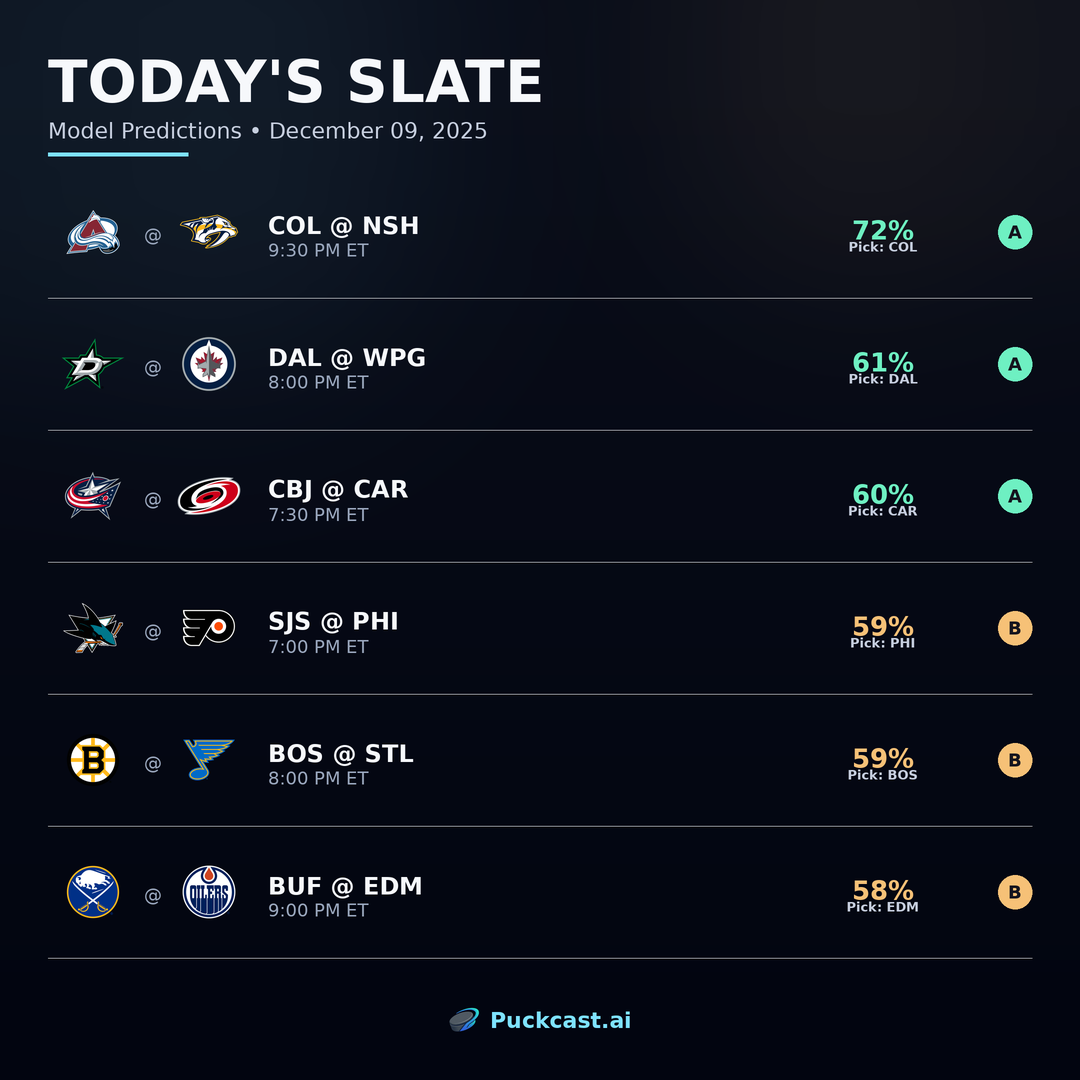
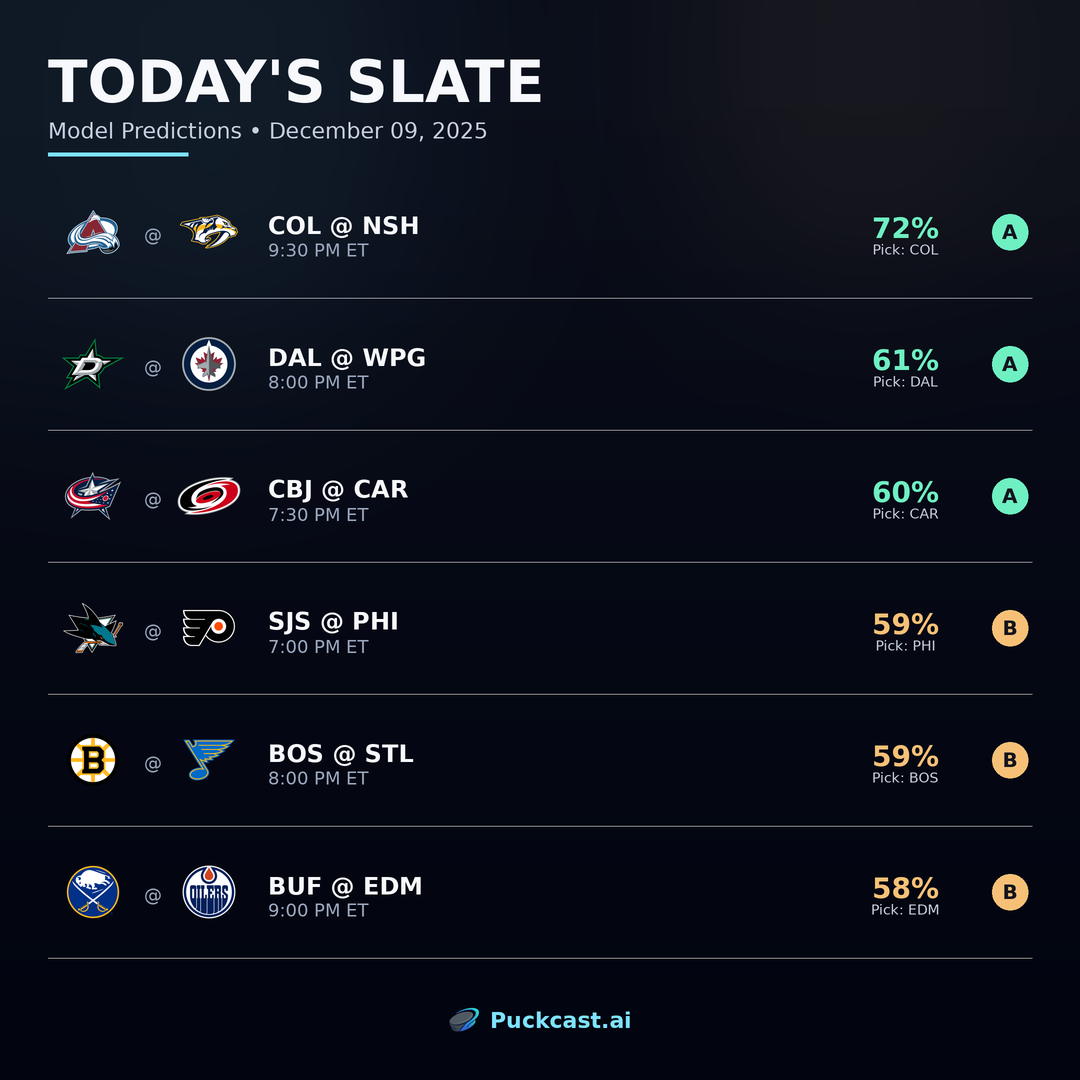
fix: balance Today's Slate pick info sizing and spacing
- Probability: S(28) - balanced size
- Pick label: S(14) - not bold, better hierarchy
- Grade badge: S(36), letter S(20)
- Added S(8) spacing between probability and pick label
- Adjusted position for better alignment

diff --git a/graphics/templates/todays_slate.py b/graphics/templates/todays_slate.py
@@ -115,42 +115,43 @@ def draw_game_row(
     grade_color = get_confidence_color_rgb(confidence)
 
     # Calculate vertical center for pick section (aligned with matchup text)
-    pick_section_x = img.width - margin - S(180)
+    pick_section_x = img.width - margin - S(160)
 
     # Probability text - balanced size
-    prob_font = get_font(S(26), bold=True)
+    prob_font = get_font(S(28), bold=True)
     prob_text = f"{pick_prob * 100:.0f}%"
     prob_bbox = draw.textbbox((0, 0), prob_text, font=prob_font)
     prob_w = prob_bbox[2] - prob_bbox[0]
     prob_h = prob_bbox[3] - prob_bbox[1]
 
-    # Pick label
-    pick_font = get_font(S(13), bold=True)
+    # Pick label - with proper spacing
+    pick_font = get_font(S(14), bold=False)
     pick_label = f"Pick: {pick_abbrev}"
     pick_bbox = draw.textbbox((0, 0), pick_label, font=pick_font)
     pick_w = pick_bbox[2] - pick_bbox[0]
     pick_h = pick_bbox[3] - pick_bbox[1]
 
-    # Grade badge - compact
-    badge_size = S(34)
+    # Grade badge
+    badge_size = S(36)
 
-    # Total height of pick section
-    total_pick_h = prob_h + S(4) + pick_h
+    # Total height of pick section with proper spacing
+    spacing = S(8)
+    total_pick_h = prob_h + spacing + pick_h
     pick_start_y = row_center_y - total_pick_h // 2
 
     # Draw probability
     draw.text((pick_section_x, pick_start_y), prob_text, fill=grade_color, font=prob_font)
 
-    # Draw pick label below
-    draw.text((pick_section_x + (prob_w - pick_w) // 2, pick_start_y + prob_h + S(4)), pick_label, fill=hex_to_rgb(PuckcastColors.TEXT_SECONDARY), font=pick_font)
+    # Draw pick label below with spacing
+    draw.text((pick_section_x + (prob_w - pick_w) // 2, pick_start_y + prob_h + spacing), pick_label, fill=hex_to_rgb(PuckcastColors.TEXT_SECONDARY), font=pick_font)
 
     # Grade badge on far right
-    badge_x = img.width - margin - badge_size
+    badge_x = img.width - margin - badge_size - S(4)
     badge_y = row_center_y - badge_size // 2
     draw.ellipse([badge_x, badge_y, badge_x + badge_size, badge_y + badge_size], fill=grade_color)
 
     # Grade letter
-    grade_font = get_font(S(18), bold=True)
+    grade_font = get_font(S(20), bold=True)
     grade_bbox = draw.textbbox((0, 0), confidence, font=grade_font)
     grade_w = grade_bbox[2] - grade_bbox[0]
     grade_h = grade_bbox[3] - grade_bbox[1]
